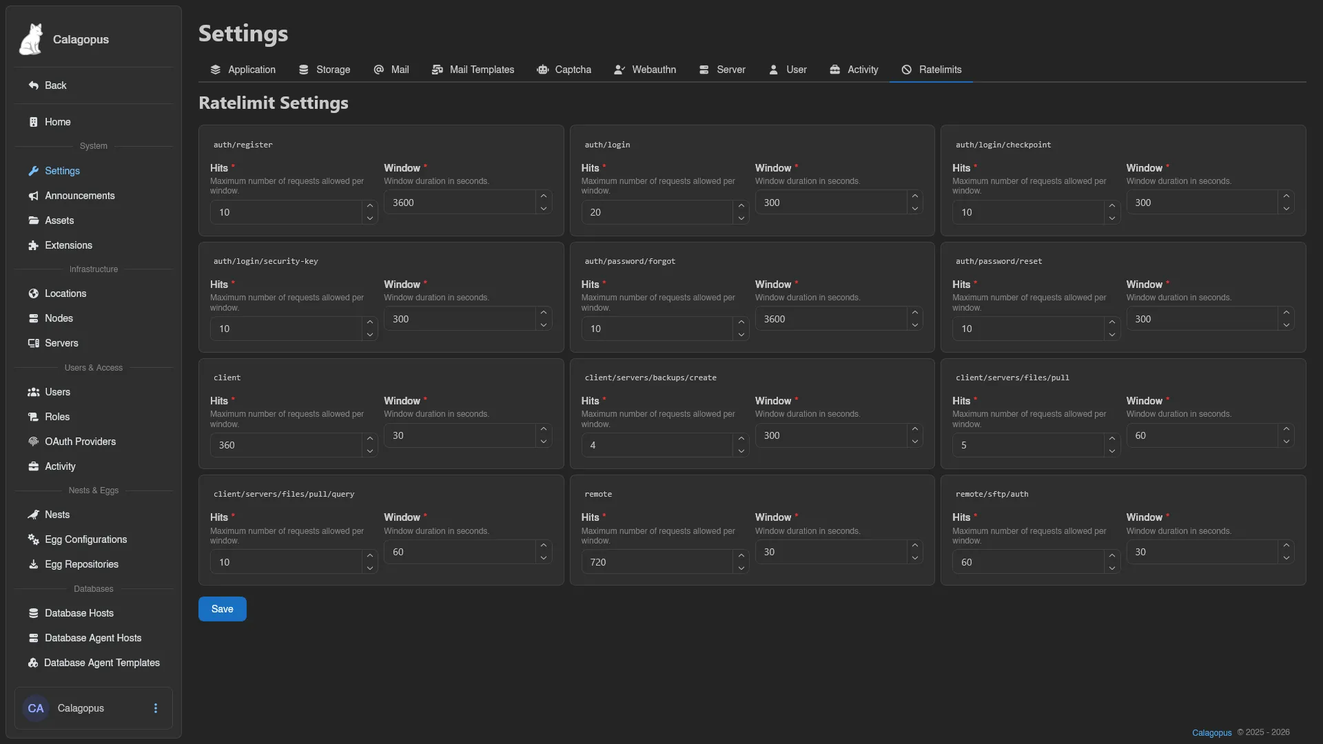
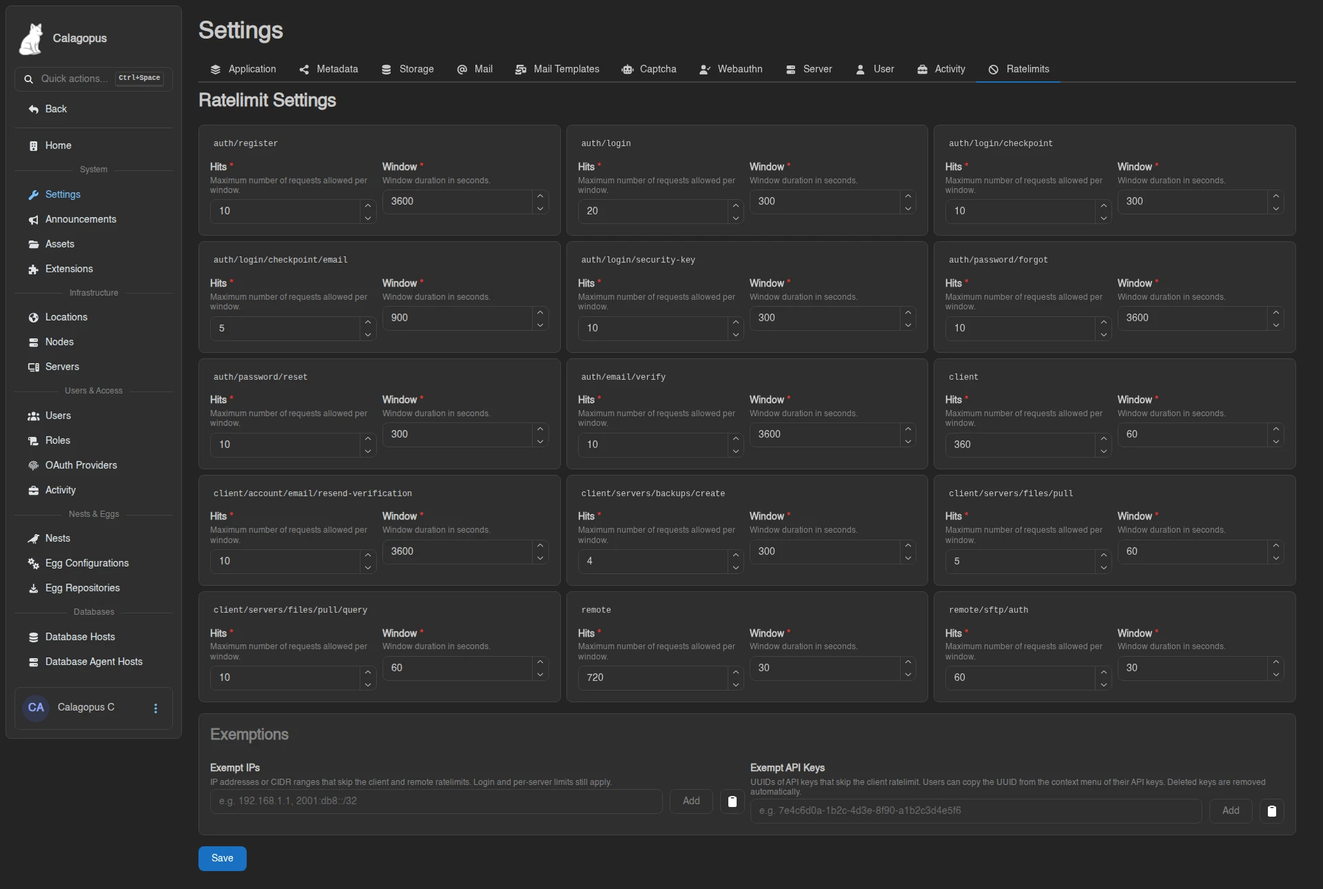
update docs

diff --git a/.vitepress/data/config/wings.ts b/.vitepress/data/config/wings.ts
@@ -147,21 +147,39 @@ export const wingsConfigDoc: ConfigDoc = {
           default: 4,
         },
         {
+          key: 'api.file_search_context.max_matches',
+          description:
+            'The largest number of context blocks per file a search request may ask for. A request above this limit (or asking for `0`) is rejected outright rather than trimmed, so raising it lets clients pull more of each file into a single response.',
+          default: 100,
+        },
+        {
+          key: 'api.file_search_context.max_response_size',
+          description:
+            'The total size (in bytes) of preview context Wings will return across a whole search response. Context blocks are added until the budget is spent; files past it are still listed as matches but come back without preview content and are flagged as truncated. This is the effective ceiling on how large a preview-enabled search response can get.',
+          default: 8388608,
+        },
+        {
           key: 'api.file_copy_threads',
           description:
-            'The number of concurrent worker threads allocated for duplicating files and directories within the file manager.',
+            'The number of concurrent worker threads allocated for duplicating files and directories within the file manager. Set to `0` to use every available core.',
           default: 4,
+        },
+        {
+          key: 'api.file_delete_threads',
+          description:
+            "The number of concurrent worker threads used to walk and remove a directory tree. Applies to deleting a directory from the file manager and to wiping a server's volume when it is deleted or reinstalled. Set to `0` to use every available core.",
+          default: 2,
         },
         {
           key: 'api.file_decompression_threads',
           description:
-            'The number of threads used for extracting archives. Applies to `.tar.xz`, `.tar.lz`, `.zip`, `.ddup`, `.7z`.',
-          default: 2,
+            'The number of threads used for extracting archives. Applies to `.tar.xz`, `.tar.lz`, `.zip`, `.ddup`, `.7z`. Set to `0` to use every available core.',
+          default: 4,
         },
         {
           key: 'api.file_compression_threads',
           description:
-            'The number of threads used for creating archives. Applies to `.tar.xz`, `.tar.lz`, `.zip`, `.ddup`, `.7z`.',
+            'The number of threads used for creating archives. Applies to `.tar.xz`, `.tar.lz`, `.zip`, `.ddup`, `.7z`. Set to `0` to use every available core.',
           default: 2,
         },
         {
@@ -987,7 +1005,7 @@ export const wingsConfigDoc: ConfigDoc = {
           notesAfter: [
             {
               type: 'warning',
-              body: 'Server firewalls are Linux only, and are not supported with a rootless container engine - published port traffic does not traverse the host netfilter forward path there.\n\nWhen no backend ends up usable - an unsupported platform, a rootless engine, neither `nft` nor `iptables` present, or a helper container that fails to start - a server that has firewall rules configured refuses to start rather than running unprotected. Set this to `disabled` to start such servers anyway, in which case Wings logs a warning per server and leaves its rules unapplied.',
+              body: 'Server firewalls are Linux only, and are not supported with a rootless container engine - published port traffic does not traverse the host netfilter forward path there.\n\nWhen no backend ends up usable - an unsupported platform, a rootless engine, neither `nft` nor `iptables` present, or a helper container that fails to start - a server that has firewall rules configured refuses to start rather than running unprotected. Set this to `disabled` to start such servers anyway, in which case Wings logs a warning per server and leaves its rules unapplied.\n\nThe `container` backend runs `nft` out of the Wings image itself, so that image has to carry the binary. The official Wings and All-in-One images do; a custom image may not, and Wings then reports that `nft` is missing from the image the helper container runs.',
             },
           ],
         },
@@ -1289,7 +1307,7 @@ export const wingsConfigDoc: ConfigDoc = {
           key: 'tundra.source_image',
           description:
             'The image the tundra binary is extracted from when `binary` is empty. Pin this to control which tundra version the node runs.',
-          default: 'ghcr.io/calagopus/tundra:1.0.0',
+          default: 'ghcr.io/calagopus/tundra:latest',
         },
         {
           key: 'tundra.metrics_port',

diff --git a/web/docs/wings/configuration.md b/web/docs/wings/configuration.md
@@ -194,24 +194,48 @@ Default value:
 file_search_threads: 4
 ```
 
+### api.file_search_context.max_matches
+The largest number of context blocks per file a search request may ask for. A request above this limit (or asking for `0`) is rejected outright rather than trimmed, so raising it lets clients pull more of each file into a single response.
+
+Default value:
+```yaml
+max_matches: 100
+```
+
+### api.file_search_context.max_response_size
+The total size (in bytes) of preview context Wings will return across a whole search response. Context blocks are added until the budget is spent; files past it are still listed as matches but come back without preview content and are flagged as truncated. This is the effective ceiling on how large a preview-enabled search response can get.
+
+Default value:
+```yaml
+max_response_size: 8388608
+```
+
 ### api.file_copy_threads
-The number of concurrent worker threads allocated for duplicating files and directories within the file manager.
+The number of concurrent worker threads allocated for duplicating files and directories within the file manager. Set to `0` to use every available core.
 
 Default value:
 ```yaml
 file_copy_threads: 4
 ```
 
-### api.file_decompression_threads
-The number of threads used for extracting archives. Applies to `.tar.xz`, `.tar.lz`, `.zip`, `.ddup`, `.7z`.
+### api.file_delete_threads
+The number of concurrent worker threads used to walk and remove a directory tree. Applies to deleting a directory from the file manager and to wiping a server's volume when it is deleted or reinstalled. Set to `0` to use every available core.
 
 Default value:
 ```yaml
-file_decompression_threads: 2
+file_delete_threads: 2
+```
+
+### api.file_decompression_threads
+The number of threads used for extracting archives. Applies to `.tar.xz`, `.tar.lz`, `.zip`, `.ddup`, `.7z`. Set to `0` to use every available core.
+
+Default value:
+```yaml
+file_decompression_threads: 4
 ```
 
 ### api.file_compression_threads
-The number of threads used for creating archives. Applies to `.tar.xz`, `.tar.lz`, `.zip`, `.ddup`, `.7z`.
+The number of threads used for creating archives. Applies to `.tar.xz`, `.tar.lz`, `.zip`, `.ddup`, `.7z`. Set to `0` to use every available core.
 
 Default value:
 ```yaml
@@ -1299,6 +1323,8 @@ backend: auto
 Server firewalls are Linux only, and are not supported with a rootless container engine - published port traffic does not traverse the host netfilter forward path there.
 
 When no backend ends up usable - an unsupported platform, a rootless engine, neither `nft` nor `iptables` present, or a helper container that fails to start - a server that has firewall rules configured refuses to start rather than running unprotected. Set this to `disabled` to start such servers anyway, in which case Wings logs a warning per server and leaves its rules unapplied.
+
+The `container` backend runs `nft` out of the Wings image itself, so that image has to carry the binary. The official Wings and All-in-One images do; a custom image may not, and Wings then reports that `nft` is missing from the image the helper container runs.
 :::
 
 ### docker.firewall.source_file_max_entries
@@ -1705,7 +1731,7 @@ The image the tundra binary is extracted from when `binary` is empty. Pin this t
 
 Default value:
 ```yaml
-source_image: ghcr.io/calagopus/tundra:1.0.0
+source_image: ghcr.io/calagopus/tundra:latest
 ```
 
 ### tundra.metrics_port
@@ -1887,8 +1913,12 @@ api:
   directory_entry_limit: 10000
   send_offline_server_logs: false
   file_search_threads: 4
+  file_search_context:
+    max_matches: 100
+    max_response_size: 8388608
   file_copy_threads: 4
-  file_decompression_threads: 2
+  file_delete_threads: 2
+  file_decompression_threads: 4
   file_compression_threads: 2
   upload_limit: 100
   max_jwt_uses: 5
@@ -2127,7 +2157,7 @@ tundra:
   data_directory: '{root_directory}/tundra'
   binary: ''
   image: debian:trixie-slim
-  source_image: ghcr.io/calagopus/tundra:1.0.0
+  source_image: ghcr.io/calagopus/tundra:latest
   metrics_port: 7101
 remote: https://panel.example.com
 remote_headers: {}
@@ -2184,8 +2214,12 @@ api:
   directory_entry_limit: 10000
   send_offline_server_logs: false
   file_search_threads: 4
+  file_search_context:
+    max_matches: 100
+    max_response_size: 8388608
   file_copy_threads: 4
-  file_decompression_threads: 2
+  file_delete_threads: 2
+  file_decompression_threads: 4
   file_compression_threads: 2
   upload_limit: 100
   max_jwt_uses: 5
@@ -2419,7 +2453,7 @@ tundra:
   data_directory: '{root_directory}\tundra'
   binary: ''
   image: debian:trixie-slim
-  source_image: ghcr.io/calagopus/tundra:1.0.0
+  source_image: ghcr.io/calagopus/tundra:latest
   metrics_port: 7101
 remote: https://panel.example.com
 remote_headers: {}

diff --git a/web/docs/panel/features/admin/servers.md b/web/docs/panel/features/admin/servers.md
@@ -11,6 +11,23 @@ description: Create servers, look them up, and manage every server on the panel 
 
 Next to **Create** sits **Find by External ID**: enter the external identifier (for example one set by your billing system), hit **Search**, and a **Server Found** card shows the matching server's name, owner, and node with a **View Server** button. If nothing matches, you get "No server found with that external ID."
 
+## Bulk Actions
+
+Selecting servers in the list turns the header into an action bar that applies one operation to the whole selection. Select with the row checkboxes, or by dragging a box across the rows.
+
+| Action | Effect | Needs |
+| --- | --- | --- |
+| **Clear State** | Clears the stored installation/transfer state, the same as [Clear State](#server-view) on a single server | `servers.update` |
+| **Unsuspend** | Lifts suspension | `servers.update` |
+| **Suspend** | Suspends the servers, stopping them and cutting off their owners | `servers.update` |
+| **Delete** | Permanently deletes the servers and everything on them | `servers.delete` |
+
+Each action asks for confirmation first, and **Delete** spells out that it cannot be undone. Only the actions your role permits appear.
+
+Servers the action would not change are skipped rather than pushed through, so suspending a selection that already contains suspended servers only touches the rest, and the toast reports both counts ("Successfully suspended 3 servers. 2 servers skipped."). If nothing in the selection would change, the panel says so and does nothing.
+
+Servers are processed independently, so a bulk action can partly succeed; the toast then reports how many succeeded and how many failed.
+
 ## Creating a Server
 
 Click **Create** (or go to `/admin/servers/new`). The form is a set of cards; an **Advanced mode** toggle in the top right reveals the fields marked *advanced* below and is remembered across admin forms.
@@ -26,7 +43,7 @@ Click **Create** (or go to `/admin/servers/new`). The form is a set of cards; an
 | Field | Notes |
 | --- | --- |
 | **Node** | Required. Where the server will be deployed. |
-| **Owner** | Required. The user who owns the server. |
+| **Owner** | Required. The user who owns the server. The dropdown searches by username *and* email, and each entry shows both. If nobody matches, a **Can't find them? Create a new user** link opens a create-user modal inline and selects the new account as the owner (needs `users.create`). |
 | **Nest** | Required. Selecting one unlocks the egg dropdown. |
 | **Egg** | Required. Determines images, startup commands, and variables. |
 | **Backup Configuration** | Optional; defaults to "Inherit from Node/Location". |
@@ -133,9 +150,11 @@ Mounts attached to this server: ID, Name, Source, Target, and Added. **Add** att
 
 ### Backups
 
-All backups of this server: Name, **Kind**, **Source**, Node, Checksum, Size, Files, and Created, with failed backups flagged. Kind separates the server's file archives from dumps of its [database instances](./database-agent-hosts.md), and Source names either the server files or the instance a dump came from. Restore and export to files are offered for file backups only. A warning icon appears when a backup lives on a different node than the server; those are not viewable from the client API. The **Only show partially detached backups** switch filters to exactly those.
+All backups of this server: Name, **Kind**, **Source**, Node, Checksum, Size, Files, and Created, with failed backups flagged. Kind separates the server's file archives from dumps of its [database instances](./database-agent-hosts.md), and Source names either the server files or the instance a dump came from. Restore and export to files are offered for file backups only. A warning icon appears when a backup lives on a different node than the server; those are not viewable from the client API. The **Only show partially detached backups** switch filters to exactly those, and also decides which failed backups the button below clears.
 
 Right-click a completed backup for **Download** (with a format submenu for streaming backups), **Restore**, **Export to Files**, **View Metadata** (raw JSON), and **Delete**. The owner-facing side is the [Backups](../server/backups.md) page.
+
+When there are failed backups, a **Delete Failed** button appears above the table (requires `nodes.backups`), showing how many it would remove. It asks for confirmation, keeps locked backups and any whose configuration is in maintenance, and runs in the background. A **Force** switch removes them even when the configuration is missing or the remote storage is unreachable, at the risk of leaving orphaned files behind.
 
 ![](./images/servers/backups.webp)
 

diff --git a/web/docs/panel/features/server/files.md b/web/docs/panel/features/server/files.md
@@ -63,6 +63,27 @@ Results replace the listing, with a banner summarizing the query and active filt
 
 <img src="./images/files/search-modal.webp" width="310" alt="Search modal with advanced filters" />
 
+#### Result Previews
+
+Every search result carries an inline preview you can expand and collapse per file, in both the list and the tree view.
+
+With a **File Content** search running, the preview shows the matching lines themselves, with a line of context either side and the match highlighted, headed by the line range ("Lines 41-43"). Without a content filter, it shows the first few lines of the file instead, so you still get a sense of what you matched. Archives never get a preview.
+
+Previews are capped: at most six lines are shown per file, and **More matches not shown** appears when a file matched more times than fit.
+
+Some results show a short status instead of content:
+
+| Status | Meaning |
+| --- | --- |
+| **Content permission required** | You have `files.read` but not `files.read-content`, so the panel may list matching files but not show what is inside them. |
+| **Match found, preview unavailable** | The file matched, but the node returned no context for it, usually because it is larger than the node's preview limit. |
+| **Preview unavailable** | The file's contents could not be read back. |
+| **Empty file** | The file matched the name or size filters and has no content. |
+
+::: info
+How much the node will read for previews is capped by [`api.file_search_context`](../../../wings/configuration.md#api-file-search-context-max-matches) in the Wings configuration, separately from the **Max file size** on the search itself. A file over the node's budget still counts as a match; it just comes back without preview content.
+:::
+
 ### Analyzing Disk Usage
 
 The chart icon next to **Search** ("Analyze directory sizes") opens **Largest Directories**, a treemap of which directories eat your disk. Click a directory in the map to jump into it.
@@ -180,7 +201,7 @@ Revisions are recorded by Wings for edits made through the file manager and SFTP
 
 ## Live Collaboration
 
-When several people open the same file, the editor switches to a shared real-time session: everyone's avatar appears in the header, and edits merge live. **Save** persists the shared document for everyone. In Monaco each participant also gets a colored cursor and selection labeled with their name; Pierre syncs the content but draws no remote cursors. The [VS Code extension](../../../integrations/vscode.md) supports the same real-time collaboration, synchronized through the panel.
+When several people open the same file, the editor switches to a shared real-time session: everyone's avatar appears in the header, and edits merge live. **Save** persists the shared document for everyone. Each participant also gets a colored cursor and selection labeled with their name, in both Monaco and Pierre. The [VS Code extension](../../../integrations/vscode.md) supports the same real-time collaboration, synchronized through the panel.
 
 If the file changes on disk outside the session (for example via SFTP), a warning banner appears with **View Diff** to compare, **Load Disk Version** to replace the session contents with the file on disk, or **Keep Editor Version** to overwrite the disk with what the session has.
 

diff --git a/web/docs/panel/extensions/concepts/email-templates.md b/web/docs/panel/extensions/concepts/email-templates.md
@@ -119,7 +119,7 @@ The `default_content` you ship with your extension should be written in English,
 
 ## Variables and Translations
 
-Every mail is rendered in the recipient's language. The template itself stays one HTML document. The wording that changes with the language lives in variables, small MiniJinja fragments the template references as <code v-pre>{{ vars.<name> }}</code>. A variable has an English default and optional translated defaults. Operators can override any of them per language, or add their own, from the same admin page that edits the template.
+Every mail is rendered in the recipient's language. The template itself stays one HTML document. The wording that changes with the language lives in variables, small MiniJinja fragments the template references as <code v-pre>{{ vars.&lt;name&gt; }}</code>. A variable has an English default and optional translated defaults. Operators can override any of them per language, or add their own, from the same admin page that edits the template.
 
 The easiest way to ship them is a directory of JSON files, one per language, embedded with [`include_dir`](https://docs.rs/include_dir) (a workspace dependency, add `include_dir = { workspace = true }` to your extension's `Cargo.toml`). `en.json` declares the variables and their English defaults, keyed by template identifier; every other `<language>.json` carries translations for the same keys. This is exactly how the panel ships its own defaults, so you can crib the layout from `shared/mails/variables/` in the panel source.
 
@@ -178,7 +178,7 @@ The template then reads:
 A few rules for variables:
 
 - **Names** are lowercase letters, digits and underscores, starting with a letter, at most 64 characters. Invalid names are logged and dropped at registration.
-- **Values are MiniJinja fragments** rendered with the same context as the template, so <code v-pre>{{ user.username }}</code> and <code v-pre>{{ settings.app.name }}</code> work inside them. For the body they are rendered with HTML auto-escaping and inserted as safe HTML; for the subject they are rendered as plain text. A variable can reference another one as <code v-pre>{{ vars.<name> }}</code>, one level deep: a chain of three renders the innermost as empty.
+- **Values are MiniJinja fragments** rendered with the same context as the template, so <code v-pre>{{ user.username }}</code> and <code v-pre>{{ settings.app.name }}</code> work inside them. For the body they are rendered with HTML auto-escaping and inserted as safe HTML; for the subject they are rendered as plain text. A variable can reference another one as <code v-pre>{{ vars.&lt;name&gt; }}</code>, one level deep: a chain of three renders the innermost as empty.
 - **Resolution order** for a recipient language is: the operator's value for that language, the operator's English value, your translated default for that language, your English default. Once an operator customises a variable in English, that wording is what every language without its own override receives.
 - **Template variables shadow global ones** with the same name.
 - `add_template_variable` is a no-op if the variable already exists, `mutate_template_variable(identifier, name, |variable| ...)` changes an existing one, mirroring `add_template` and `mutate_template`.

diff --git a/web/docs/panel/features/admin/settings.md b/web/docs/panel/features/admin/settings.md
@@ -42,6 +42,26 @@ Two combinations are rejected when you save, with an error rather than a silent 
 - *"at least one two-factor method must be accepted while two-factor is required"* - you cleared **Accepted Two-Factor Methods** while the requirement is anything other than None.
 - *"email two-factor and email verification require a mail transport to be configured"* - one of the two email options is on while [Mail](#mail) is set to no transport.
 
+## Metadata
+
+![](./images/settings/metadata.webp)
+
+Controls the `<head>` of the panel's own page: what search engines record and what a link to your panel looks like when it is pasted into Discord, Slack, or a social app. These values are rendered into the HTML the panel serves, so they apply before anyone logs in.
+
+| Field | Description |
+| --- | --- |
+| **Description** | Shown under the title in search results and link previews. Left empty it falls back to "Manage your game servers and services with *name*." |
+| **Preview Image** | The image shown in link previews (`og:image`). Suggests files uploaded under [Assets](./assets.md). Must be a PNG or JPEG, **not** an SVG, since most preview scrapers refuse SVG. A bare path is resolved against the panel **URL**; a full `http(s)://` address is used as is. Empty falls back to the panel's `android-chrome-512x512.png` |
+| **Twitter Card Type** | **Summary** for a small square thumbnail, or **Summary with Large Image** for a full-width banner |
+| **Theme Color** | Hex color that tints the browser UI on mobile and the accent bar on some link previews. Defaults to `#6c5ce7` |
+| **Allow Search Engine Indexing** | On sends `robots: index, follow`; off sends `noindex, nofollow` |
+
+**Autofill** fills **Description** and **Preview Image** with the defaults described above, which is the quickest way back to a working starting point.
+
+::: info
+`noindex` is a request, not an access control. It asks well-behaved crawlers to stay out; it does not hide the panel. Keep a private panel behind real authentication rather than relying on this switch.
+:::
+
 ## Storage
 
 Where the panel stores uploaded files such as profile pictures and admin assets. Pick a **Driver**:

diff --git a/web/docs/panel/features/admin/index.md b/web/docs/panel/features/admin/index.md
@@ -69,9 +69,24 @@ The sidebar starts with **Back** (returns to the dashboard) and **Home**, follow
 
 Three cards:
 
-- **System Overview**: CPU model, memory usage (including how much the panel process itself uses), kernel version and architecture, container type (**Official**, **Official AIO**, **Official Heavy**, or **None detected**), PostgreSQL version and database size, cache version, and cache calls/hits/misses with the average cached call latency.
+- **System Overview**: CPU model, memory usage (including how much the panel process itself uses), kernel version and architecture, container type (**Official**, **Official AIO**, **Official Heavy**, or **None detected**), PostgreSQL version and database size, and the cache statistics below.
 - **General Statistics**: how many **Users**, **Servers**, **Locations**, **Nodes**, **Nest Eggs**, **Database Hosts**, **Backup Configurations**, and **Roles** the panel has.
 - **Backup Statistics**: backup counts for **All Time**, **Today**, **This Week**, and **This Month**, each broken down into total, successful (with size), failed, and deleted.
+
+#### Cache Statistics
+
+The System Overview card reports the cache version, **Cache Calls** (total, with hits and misses), the average latency of a hit and of a miss separately, and **Slowest Cached Call**, the worst single call seen since the panel started.
+
+Under those sits a **Call Breakdown** table giving **Calls** and **Avg. Latency** for each way a lookup can resolve:
+
+| Row | What it counts |
+| --- | --- |
+| **Memory hit** | Served from the panel process's own in-memory cache, the cheapest outcome. |
+| **Redis hit** | Missed memory but found in Redis, so it cost a network round trip. |
+| **Waited on another call** | An identical lookup was already in flight, so this one waited for that result instead of repeating the work. |
+| **Computed** | A real miss: the value had to be built from the database and written back to the cache. |
+
+A healthy panel is mostly **Memory hit**. A large **Computed** share means values are being evicted or expiring faster than they are used.
 
 ### Updates
 

diff --git a/web/docs/panel/features/admin/nodes.md b/web/docs/panel/features/admin/nodes.md
@@ -134,7 +134,9 @@ Same attach/detach pattern for [database agent](../../../db-agent/index.md) host
 
 ## Backups
 
-Every backup stored on this node, regardless of which server it belongs to (requires `nodes.backups`). Columns: Name, **Kind**, **Source**, Server, Checksum, Size, Files, and Created. Kind separates file archives from database dumps, and Source names either the server files or the instance a dump came from. Restore, export to files, detach and reattach apply to file backups only; dumps get **Reassign** instead, which moves them to another database instance of the same type, optionally on a different server. The **Only show detached backups** switch filters to backups no longer linked to any server. A warning icon marks backups whose server now lives on a different node; those aren't viewable from the client area.
+Every backup stored on this node, regardless of which server it belongs to (requires `nodes.backups`). Columns: Name, **Kind**, **Source**, Server, Checksum, Size, Files, and Created. Kind separates file archives from database dumps, and Source names either the server files or the instance a dump came from. Restore, export to files, detach and reattach apply to file backups only; dumps get **Reassign** instead, which moves them to another database instance of the same type, optionally on a different server. The **Only show detached backups** switch filters to backups no longer linked to any server, and also decides which failed backups the button below clears. A warning icon marks backups whose server now lives on a different node; those aren't viewable from the client area.
+
+When there are failed backups, a **Delete Failed** button appears above the table (requires `nodes.backups`), showing how many it would remove. It asks for confirmation, keeps locked backups and any whose configuration is in maintenance, and runs in the background. A **Force** switch removes them even when the configuration is missing or the remote storage is unreachable, at the risk of leaving orphaned files behind.
 
 ![](./images/nodes/backups.webp)
 

diff --git a/web/docs/panel/features/server/network/firewall.md b/web/docs/panel/features/server/network/firewall.md
@@ -64,6 +64,22 @@ Each node caps the size of a source file. By default a file may hold 10000 entri
 
 Nothing you do on this page reaches the server until you press **Save**. Adding, editing, removing and reordering only change the pending list. An alert appears while you have unsaved work ("You have unsaved changes. Nothing is applied until you save."), and navigating away asks for confirmation before discarding it.
 
+## Import and Export
+
+The page header has an **Export** menu and an **Import** button next to **Save**.
+
+**Export** downloads the current ruleset as `firewall-<server id>.json` or `.yml`, in the same shape **Import** accepts. It exports the rules as they sit on the page, including unsaved edits, and is greyed out while there are no rules. Viewing the page is enough to export; only **Import** needs `firewall.update`.
+
+**Import** accepts a `.json`, `.yml`, or `.yaml` ruleset, either through the file picker or by dragging the file anywhere onto the page ("Drop some files here to import as Firewall Rules").
+
+::: warning
+Importing **replaces every rule**, it does not merge into what is already there. If you have unsaved changes, a **Replace Unsaved Rules** dialog warns you first; otherwise the swap happens immediately.
+:::
+
+An import only fills the pending list, exactly like editing the rules by hand, so nothing reaches the node until you press **Save** ("Firewall rules imported. Review them and save to apply them."). A file is rejected before it touches the page if it holds more rules than the server may have, or if any rule lists more sources than allowed, both set under [Settings > Server](../../admin/settings.md#server).
+
+Because a ruleset carries no server-specific identifiers, exporting from one server and importing into another is the way to copy a firewall between servers. Mind the [source file](#source-files) paths when you do: the path travels with the rule, but the file itself does not, and each server reads its own copy.
+
 ## Warnings You May See
 
 On top of the default-allow notice above, the page raises these:

diff --git a/web/docs/additional/troubleshooting.md b/web/docs/additional/troubleshooting.md
@@ -268,6 +268,8 @@ Nodes migrated from Pterodactyl keep the `pterodactyl` user and `/var/lib/pterod
 
 **The agent host is attached and healthy but the host list in the create dialog stays empty.** Three things must all be true: a [template](../db-agent/templates.md) for the database type has been imported, the agent host is attached to the server's node or location, and the host's **Memory** and **Disk** budget still has room for the new instance. Raising the budget fixed the last report. Instances are created from the server's Databases page, not from the admin host page.
 
+**A game server suddenly loses its database connection with `database is write locked` (MySQL error `1040` / `08004`, Postgres `57P03`, or `-ERR database is write locked` on Redis).** A [database backup is being restored](../panel/features/server/databases.md#managed-databases) into that managed instance. A restore write locks the instance for its duration: new connections are refused and existing ones are dropped, so anything connected has to reconnect when it finishes. Wait for the restore to complete, then restart the game server. Exports and remote imports do not lock, so they are not the cause.
+
 **The database list doesn't update after adding one.** Refresh the page.
 
 ## OAuth and Integrations

diff --git a/web/docs/panel/features/admin/system-backup-policies.md b/web/docs/panel/features/admin/system-backup-policies.md
@@ -55,6 +55,8 @@ Due-ness is tracked per target (the cron having fired since that server's or tha
 
 The **Backups** tab lists every backup the policy has taken, searchable: Name, Server, Node, Checksum, Size, Files, and Created, each row tagged with a **SYSTEM** badge and carrying a download action. A database policy adds a **Kind** column, and its rows report no file count because a dump is a single file. Policy backups do not count towards each server's backup limit and no [backup group](../server/backups.md#backup-groups) touches them; the policy's own **Retention** rules manage them instead, re-checked once an hour. Unlocked failed attempts are cleaned up 24 hours after they finish.
 
+When there are failed backups, a **Delete Failed** button appears above the table (requires `nodes.backups`), showing how many it would remove. It asks for confirmation, keeps locked backups and any whose configuration is in maintenance, and runs in the background. A **Force** switch removes them even when the configuration is missing or the remote storage is unreachable, at the risk of leaving orphaned files behind.
+
 ![Policy backups tab](./images/system-backup-policies/backups.webp)
 
 ## Deleting a Policy

diff --git a/web/docs/panel/features/server/databases.md b/web/docs/panel/features/server/databases.md
@@ -76,6 +76,8 @@ Below that are live **CPU Load** and **Memory Load** graphs (with an "Instance i
 
 While a [database backup](./backups.md#database-backups) is being restored into the instance, a banner at the top reads "A backup is currently being restored into this managed database. Please wait..." with a progress bar and time estimate, and **Start**, **Restart**, and **Stop** are disabled until it finishes. A toast tells you whether the restore completed or failed.
 
+A restore also **write locks** the instance, and anything connected to it notices. New connections are refused with "database is write locked", and **connections that are already open are dropped**, so a game server using the database will see its connection die mid-query and need to reconnect once the restore is done. Restores are the only thing that locks an instance; exports and remote imports you start yourself do not, so your own export will not freeze the database under a running server. The [query explorer](#data-explorer) also refuses to run while the lock is held.
+
 ![](./images/databases/instance-restoring.webp)
 
 ### Databases Tab
